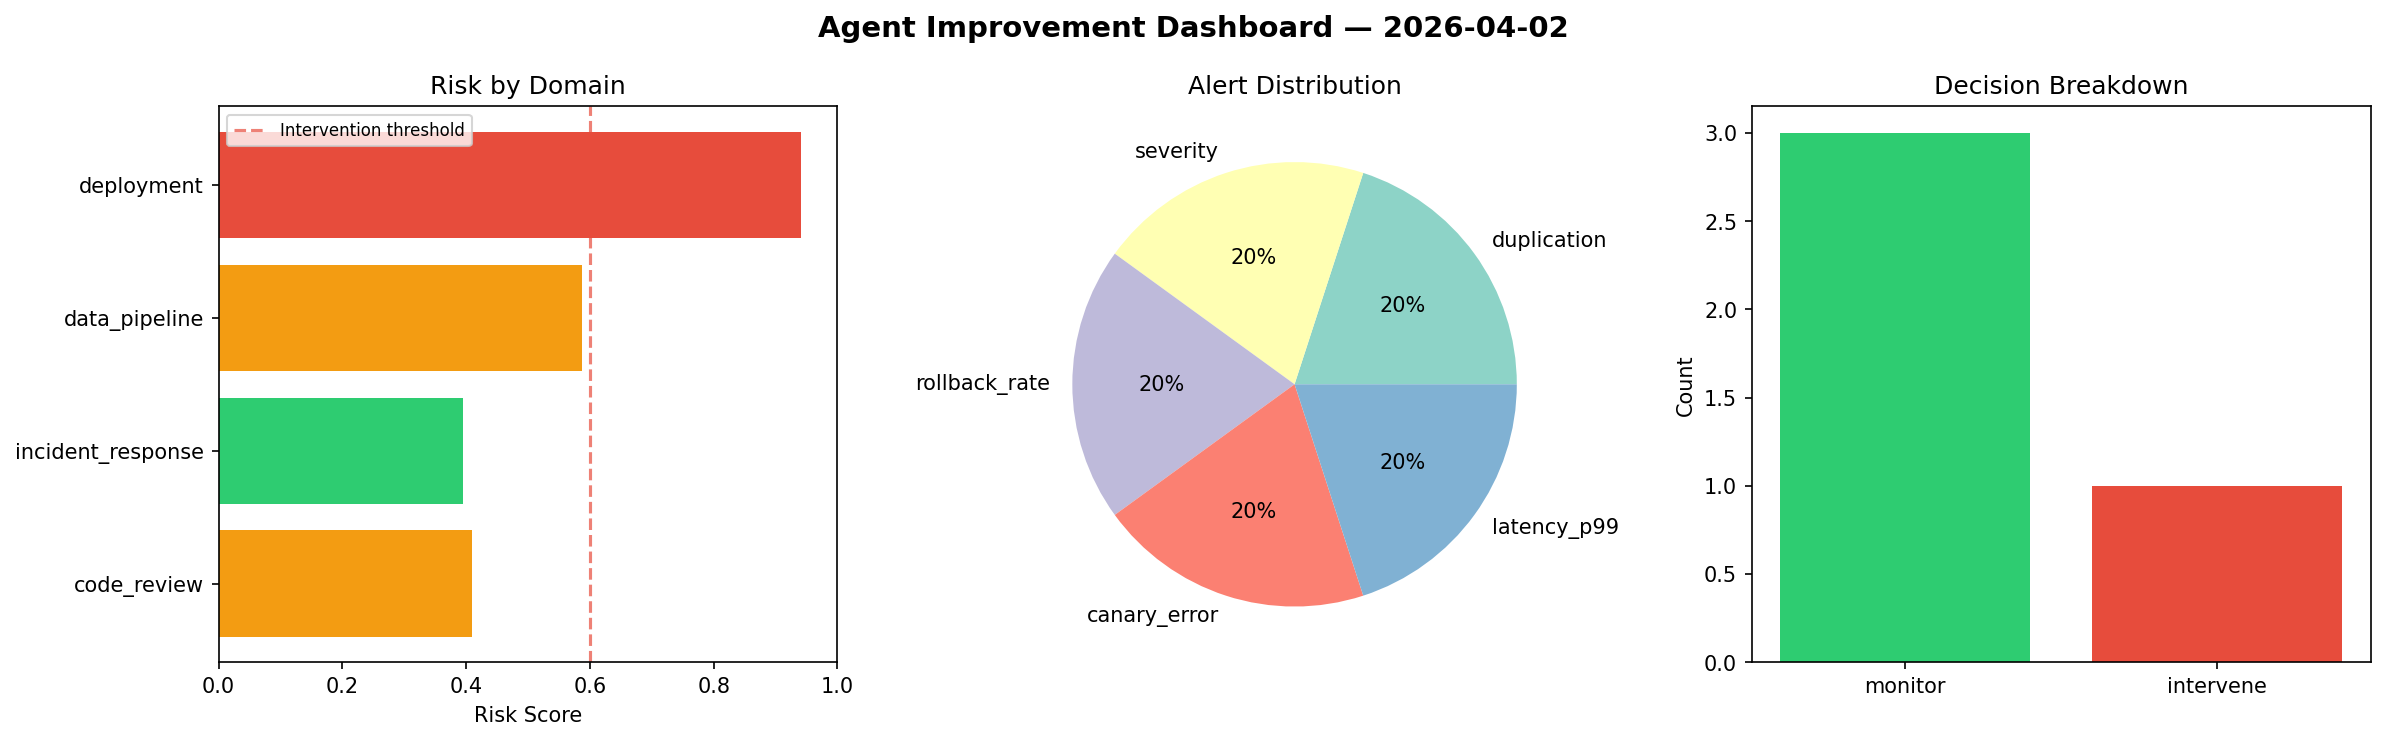
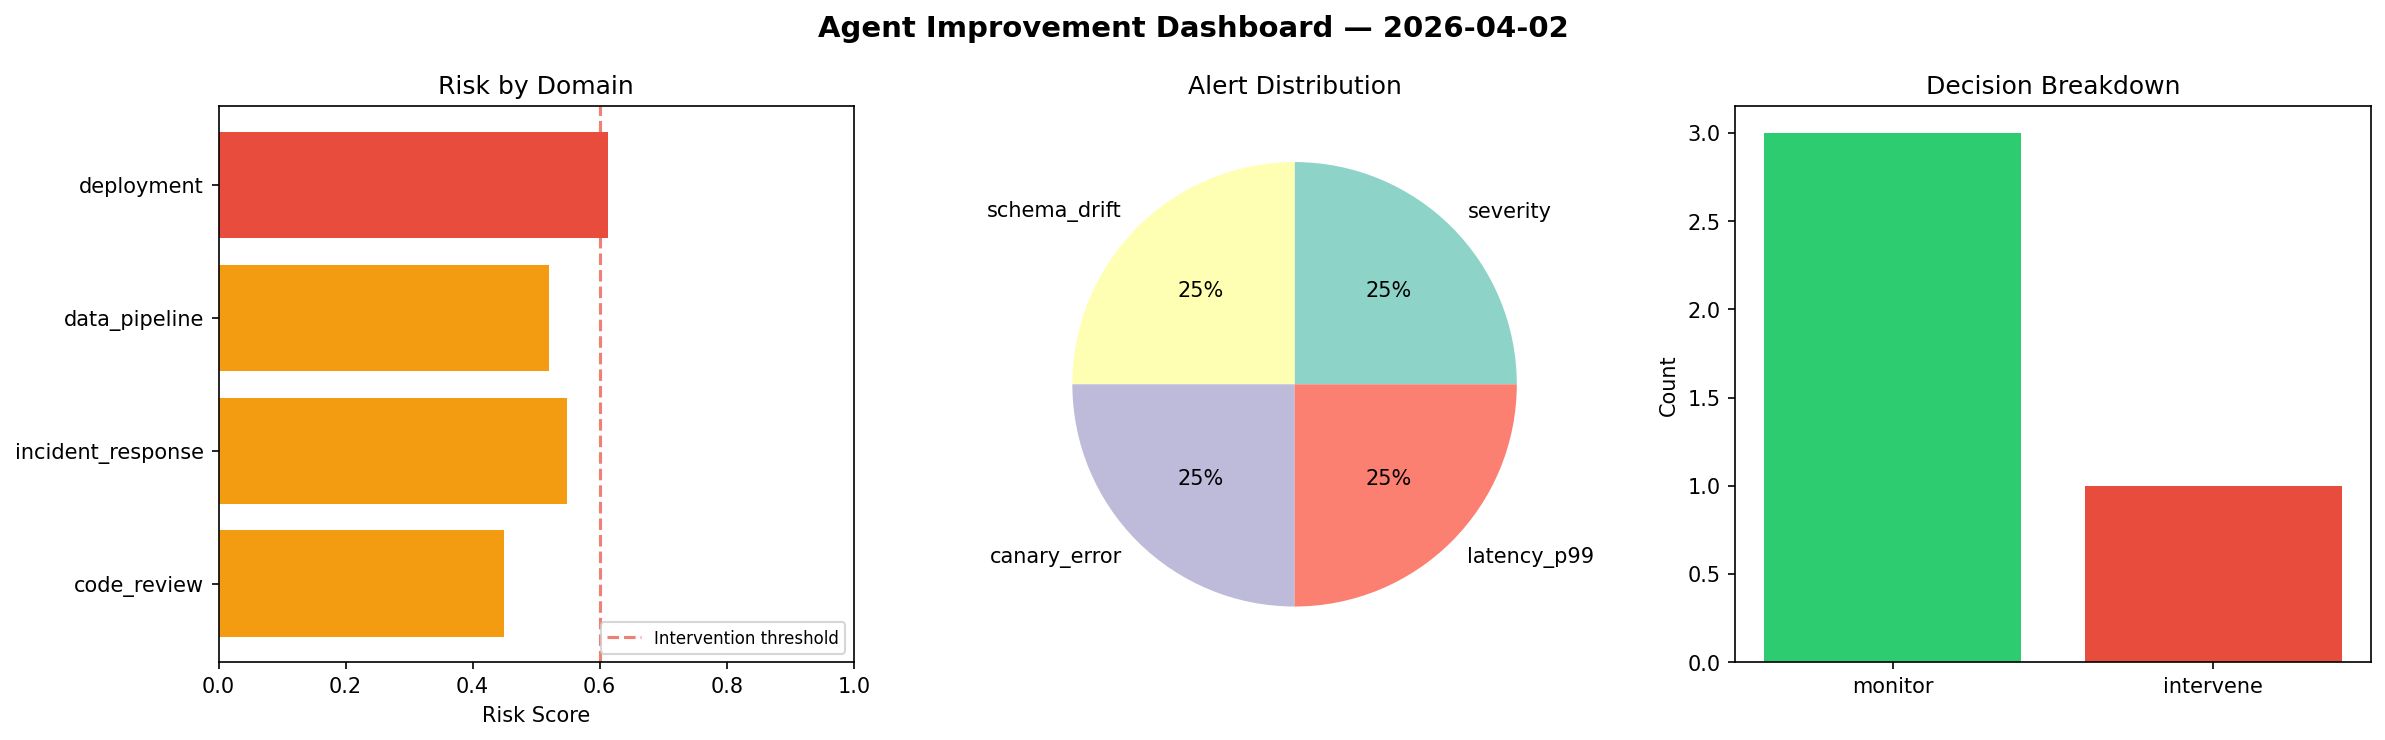
agent-improvement: daily cycle 2026-04-02T15:17

diff --git a/logs/2026-04-02.md b/logs/2026-04-02.md
@@ -1,6 +1,6 @@
 # Agent Improvement Report — 2026-04-02
 
-**Cycle ID:** `4b3a98a4` | **Avg Risk:** 0.5832 | **Interventions:** 1/4
+**Cycle ID:** `7ac19968` | **Avg Risk:** 0.5328 | **Interventions:** 1/4
 
 ![Dashboard](2026-04-02_dashboard.png)
 
@@ -10,18 +10,18 @@
 
 | Domain | Risk Score | Decision | Alerts |
 |--------|-----------|----------|--------|
-| code_review | 0.4097 | monitor | duplication |
-| incident_response | 0.3948 | monitor | severity |
-| data_pipeline | 0.5873 | monitor | none |
-| deployment | 0.9409 | intervene | rollback_rate, canary_error, latency_p99 |
+| code_review | 0.4491 | monitor | none |
+| incident_response | 0.5484 | monitor | severity |
+| data_pipeline | 0.5209 | monitor | schema_drift |
+| deployment | 0.6126 | intervene | canary_error, latency_p99 |
 
 ## Delta vs Yesterday
 
 | Domain | Today | Yesterday | Change |
 |--------|-------|-----------|--------|
-| code_review | 0.4097 | 0.3636 | 📈 12.7% |
-| incident_response | 0.3948 | 0.5102 | 📉 -22.6% |
-| data_pipeline | 0.5873 | 0.5632 | 📈 4.3% |
-| deployment | 0.9409 | 0.7096 | 📈 32.6% |
+| code_review | 0.4491 | 0.3636 | 📈 23.5% |
+| incident_response | 0.5484 | 0.5102 | 📈 7.5% |
+| data_pipeline | 0.5209 | 0.5632 | 📉 -7.5% |
+| deployment | 0.6126 | 0.7096 | 📉 -13.7% |
 
 **Refinement:** `{'adjustment': 'tighten_thresholds', 'trend': 'degrading', 'window': 4}`
